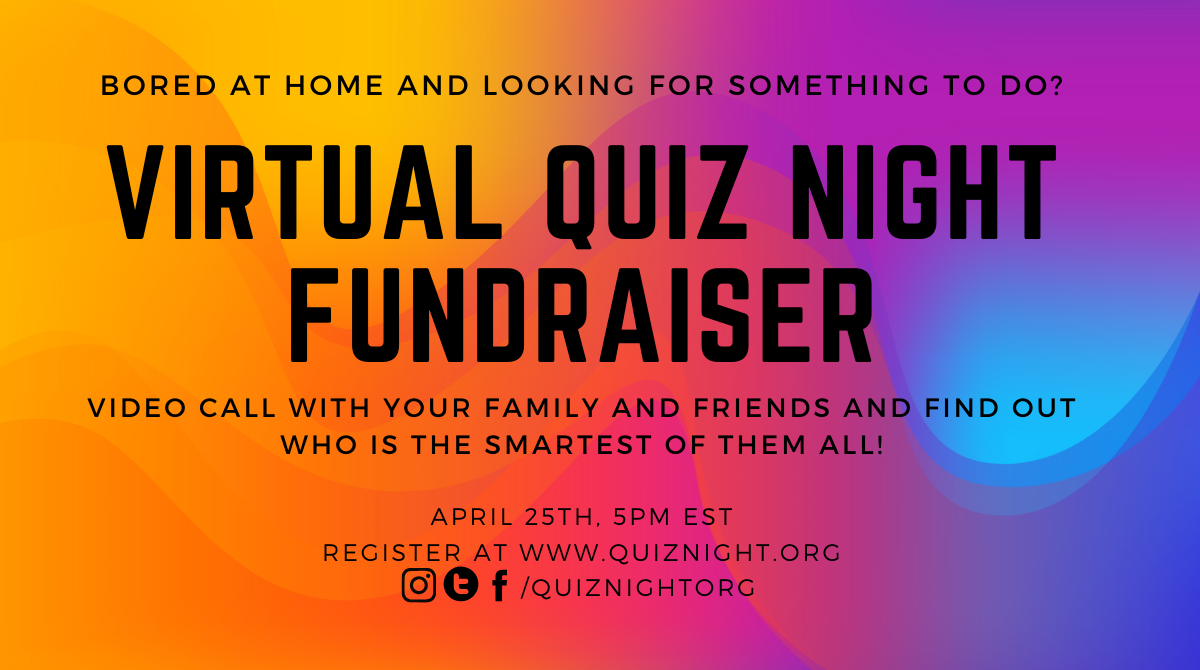
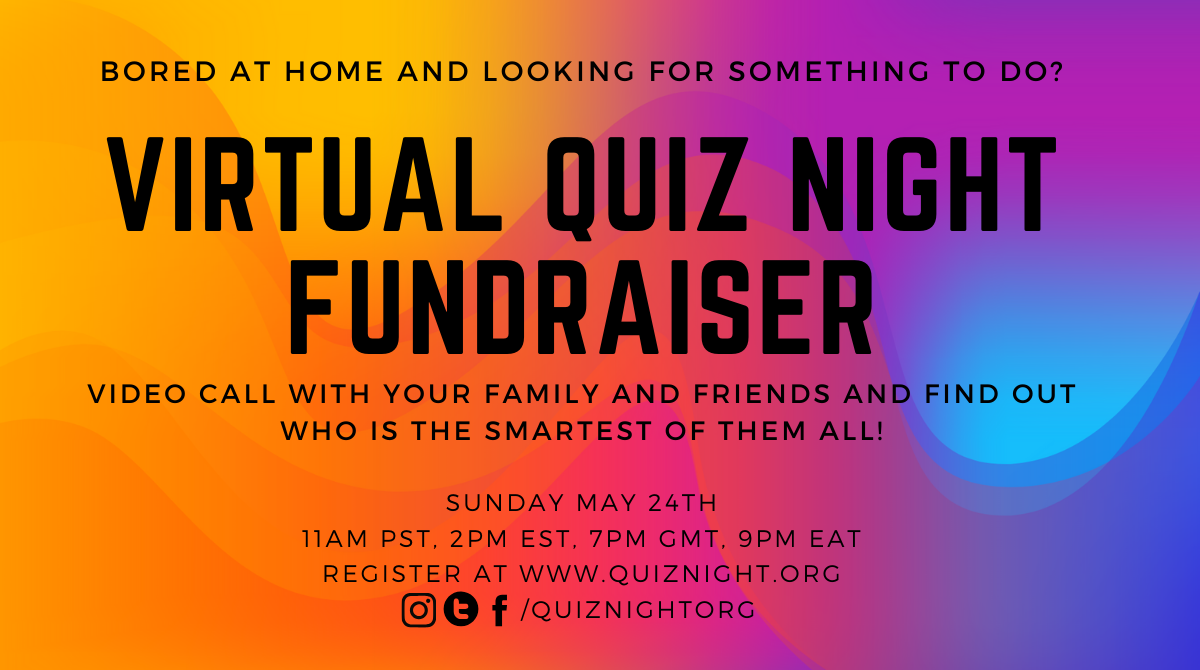
Updating Quiz Night for Virtual Quiz Night Fundraiser II event

diff --git a/success.html b/success.html
@@ -118,31 +118,214 @@
           </div>
         </div>
       </div>
+    </div>
+    <!-- slider_area_end -->
 
-      <div class="countDOwn_area">
-        <div class="container">
-          <div class="row align-items-center">
-            <div class="col-xl-4 col-md-6 col-lg-4">
-              <div class="single_date">
-                <i class="ti-dekstop"></i>
-                <span>Virtual using Zoom</span>
-              </div>
+    <!-- faq_area_Start -->
+    <div class="faq_area">
+      <div class="container">
+        <div class="row">
+          <div class="col-xl-12">
+            <div class="serction_title_large mb-95">
+              <h3>
+                Frequently Asked Questions
+              </h3>
             </div>
-            <div class="col-xl-3 col-md-6 col-lg-3">
-              <div class="single_date">
-                <i class="ti-alarm-clock"></i>
-                <span>April 18th, 5:00pm EST</span>
+          </div>
+        </div>
+        <div class="row">
+          <div class="col-xl-12">
+            <div id="accordion">
+              <div class="card">
+                <div class="card-header" id="headingTwo">
+                  <h5 class="mb-0">
+                    <button
+                      class="btn btn-link"
+                      data-toggle="collapse"
+                      data-target="#collapseOne"
+                      aria-expanded="false"
+                      aria-controls="collapseOne"
+                    >
+                      <img src="img/barnd/info.png" alt="" /> How do I get partnered with my team?
+                    </button>
+                  </h5>
+                </div>
+                <div
+                  id="collapseOne"
+                  class="collapse show"
+                  aria-labelledby="headingOne"
+                  data-parent="#accordion"
+                  style=""
+                >
+                  <div class="card-body">Once you've purchased your tickets, and before the quiz night, we'll send out an email with a form where you can build your team. If you originally selected a random team or flying solo ticket but want to be put into a group, shoot us an email at
+                    <a href="mailto:quiznightorg@gmail.com"
+                      >quiznightorg [at] gmail.com</a
+                    >
+                    and we'll sort it out.
+                  </div>
+                </div>
               </div>
-            </div>
-
-            <div class="col-xl-5 col-md-12 col-lg-5">
-              <span id="clock"></span>
+              <div class="card">
+                <div class="card-header" id="headingOne">
+                  <h5 class="mb-0">
+                    <button
+                      class="btn btn-link collapsed"
+                      data-toggle="collapse"
+                      data-target="#collapseTwo"
+                      aria-expanded="false"
+                      aria-controls="collapseTwo"
+                    >
+                      <img src="img/barnd/info.png" alt="" />Do you refund tickets?</span>
+                    </button>
+                  </h5>
+                </div>
+                <div
+                  id="collapseTwo"
+                  class="collapse"
+                  aria-labelledby="headingTwo"
+                  data-parent="#accordion"
+                  style=""
+                >
+                  <div class="card-body">
+                    Unfortunately at this time we can't refund tickets. If you're able to find someone to take your spot, we can swap it for you. Shoot us an email at <a href="mailto:quiznightorg@gmail.com">quiznightorg [at] gmail.com</a> so we can swap the details on our end.
+                  </div>
+                </div>
+              </div>
+              <div class="card">
+                <div class="card-header" id="headingThree">
+                  <h5 class="mb-0">
+                    <button
+                      class="btn btn-link collapsed"
+                      data-toggle="collapse"
+                      data-target="#collapseThree"
+                      aria-expanded="false"
+                      aria-controls="collapseThree"
+                    >
+                      <img src="img/barnd/info.png" alt="" /> What's the virtual venue and how can I connect?
+                    </button>
+                  </h5>
+                </div>
+                <div
+                  id="collapseThree"
+                  class="collapse"
+                  aria-labelledby="headingThree"
+                  data-parent="#accordion"
+                  style=""
+                >
+                  <div class="card-body">
+                    We'll be using <a href="https://zoom.us/" target="_blank" rel="noopener noreferrer">Zoom</a> for the event. Please make sure you're using a computer or smartphone compatible with Zoom. The connection details will be emailed to you and you can join once the event starts.
+                  </div>
+                </div>
+              </div>
+              <div class="card">
+                <div class="card-header" id="headingFour">
+                  <h5 class="mb-0">
+                    <button
+                      class="btn btn-link collapsed"
+                      data-toggle="collapse"
+                      data-target="#collapseFour"
+                      aria-expanded="false"
+                      aria-controls="collapseFour"
+                    >
+                      <img src="img/barnd/info.png" alt="" /> Who benefits from the Fundraiser?
+                    </button>
+                  </h5>
+                </div>
+                <div
+                  id="collapseFour"
+                  class="collapse"
+                  aria-labelledby="headingFour"
+                  data-parent="#accordion"
+                  style=""
+                >
+                  <div class="card-body">
+                    The money collected from this fundraiser will go to frontline workers and folks laid off as a direct result of COVID-19, in Kenya. We'll be partnering with a distribution channel to help get food and essential resources to the people who need it most.
+                  </div>
+                </div>
+              </div>
+              <div class="card">
+                <div class="card-header" id="headingFive">
+                  <h5 class="mb-0">
+                    <button
+                      class="btn btn-link collapsed"
+                      data-toggle="collapse"
+                      data-target="#collapseFive"
+                      aria-expanded="false"
+                      aria-controls="collapseFive"
+                    >
+                      <img src="img/barnd/info.png" alt="" /> Will you host another Quiz Night?
+                    </button>
+                  </h5>
+                </div>
+                <div
+                  id="collapseFive"
+                  class="collapse"
+                  aria-labelledby="headingFive"
+                  data-parent="#accordion"
+                  style=""
+                >
+                  <div class="card-body">
+                    If there's interest then yes! Fill out the <a href="#contact">contact form</a> below to join the list and we'll email you to let you know about future events.
+                  </div>
+                </div>
+              </div>
+              <div class="card">
+                <div class="card-header" id="heading_4">
+                  <h5 class="mb-0">
+                    <button
+                      class="btn btn-link collapsed"
+                      data-toggle="collapse"
+                      data-target="#collapse_4"
+                      aria-expanded="false"
+                      aria-controls="collapse_4"
+                    >
+                      <img src="img/barnd/info.png" alt="" /> How Can I Participate or Donate using MPesa
+                    </button>
+                  </h5>
+                </div>
+                <div
+                  id="collapse_4"
+                  class="collapse"
+                  aria-labelledby="heading_4"
+                  data-parent="#accordion"
+                  style=""
+                >
+                  <div class="card-body">
+                    You can send your MPesa payment to 0737252440. After that, use the <b>Pay Via MPesa</b> option above to register. Once you've selected your ticket you'll be asked for your MPesa confirmation number. If you have any problems please don't hesitate to contact me at quiznightorg@gmail.com.
+                  </div>
+                </div>
+              </div><div class="card">
+                <div class="card-header" id="heading_5">
+                  <h5 class="mb-0">
+                    <button
+                      class="btn btn-link collapsed"
+                      data-toggle="collapse"
+                      data-target="#collapse_5"
+                      aria-expanded="false"
+                      aria-controls="collapse_5"
+                    >
+                      <img src="img/barnd/info.png" alt="" /> Will there be winners?
+                    </button>
+                  </h5>
+                </div>
+                <div
+                  id="collapse_5"
+                  class="collapse"
+                  aria-labelledby="heading_5"
+                  data-parent="#accordion"
+                  style=""
+                >
+                  <div class="card-body">
+                    Absolutely! The winner will be crowned the ULTIMATE QUIZ NIGHT CHAMPION!
+                  </div>
+                </div>
+              </div>
             </div>
           </div>
         </div>
       </div>
     </div>
-    <!-- slider_area_end -->
+    <!-- faq_area_end -->
 
     <!-- footer_start -->
     <footer class="footer footer_bg_1">

diff --git a/index.html b/index.html
@@ -22,6 +22,7 @@
     <meta property="og:description" content="A virtual quiz night fundraiser to raise funds for folks impacted by COVID-19">
     <meta property="og:image" content="https://quiznight.org/img/social_card.png">
     <meta property="og:url" content="https://quiznight.org">
+    <meta name="og:image" content="https://quiznight.org/img/social_card.png">
     <meta name="twitter:card" content="summary_large_image">
     <meta name="twitter:description" content="A virtual quiz night fundraiser to raise funds for folks impacted by COVID-19">
     <meta name="twitter:title" content="Virtual Quiz Night Fundraiser">
@@ -111,7 +112,7 @@
                   <h3>
                     Virtual <br />
                     Quiz Night <br />
-                    Fundraiser
+                    Fundraiser II
                   </h3>
                   <a href="#registrationform" class="boxed-btn-white">Register Now!</a>
                 </div>
@@ -126,14 +127,34 @@
           <div class="row align-items-center">
             <div class="col-xl-4 col-md-6 col-lg-4">
               <div class="single_date">
-                <i class="ti-dekstop"></i>
-                <span>Virtual using Zoom</span>
+                <i class="ti-user"></i>
+                <span>42 Participants, 18 teams</span>
               </div>
             </div>
-            <div class="col-xl-3 col-md-6 col-lg-3">
+            <div class="col-xl-5 col-md-6 col-lg-5">
+              <div class="single_date">
+                <i class="ti-world"></i>
+                <span>5 Countries, 3 Continents</span>
+              </div>
+            </div>
+
+            <div class="col-xl-3 col-md-12 col-lg-3">
+              <div class="single_date">
+                <i class="ti-star"></i>
+                <span>USD$1700 raised!</span>
+              </div>
+            </div>
+          </div>
+        </div>
+      </div>
+
+      <div class="countDOwn_area">
+        <div class="container">
+          <div class="row align-items-center">
+            <div class="col-xl-7 col-md-12 col-lg-7">
               <div class="single_date">
                 <i class="ti-alarm-clock"></i>
-                <span>April 25th, 5:00pm EST</span>
+                <span>May 24th<br />11am PST, 2:00pm EST, 7pm GMT, 9pm EAT</span>
               </div>
             </div>
 
@@ -187,7 +208,7 @@
               </h3>
               <p class="register-description">Select a ticket type below.<br />
                 Tickets start at $25, however you can adjust the ticket cost if you'd like to donate more.</p>
-              <tito-widget event="quiznight/covid-19-fundraiser"></tito-widget>
+              <tito-widget event="quiznight/covid-19-fundraiser-2"></tito-widget>
             </div>
           </div>
         </div>

diff --git a/js/main.js b/js/main.js
@@ -85,7 +85,7 @@
 
     // count_dwon
     // note: this doesn't factor in daylight savings time, so adjusted 1 hour down for that
-    $("#clock").countdown("2020/04/25 16:00:00 EST", function (event) {
+    $("#clock").countdown("2020/05/24 13:00:00 EST", function (event) {
       $(this).html(
         event.strftime(
           '<div class="countdown_time"><div class="single_countdown"><h3>%D</h3><span>days</span></div><div class="single_countdown"><h3>%H</h3><span>Hours</span></div><div class="single_countdown"><h3>%M</h3><span>Minutes</span></div><div class="single_countdown"><h3>%S</h3><span>Seconds</span></div></div>'
